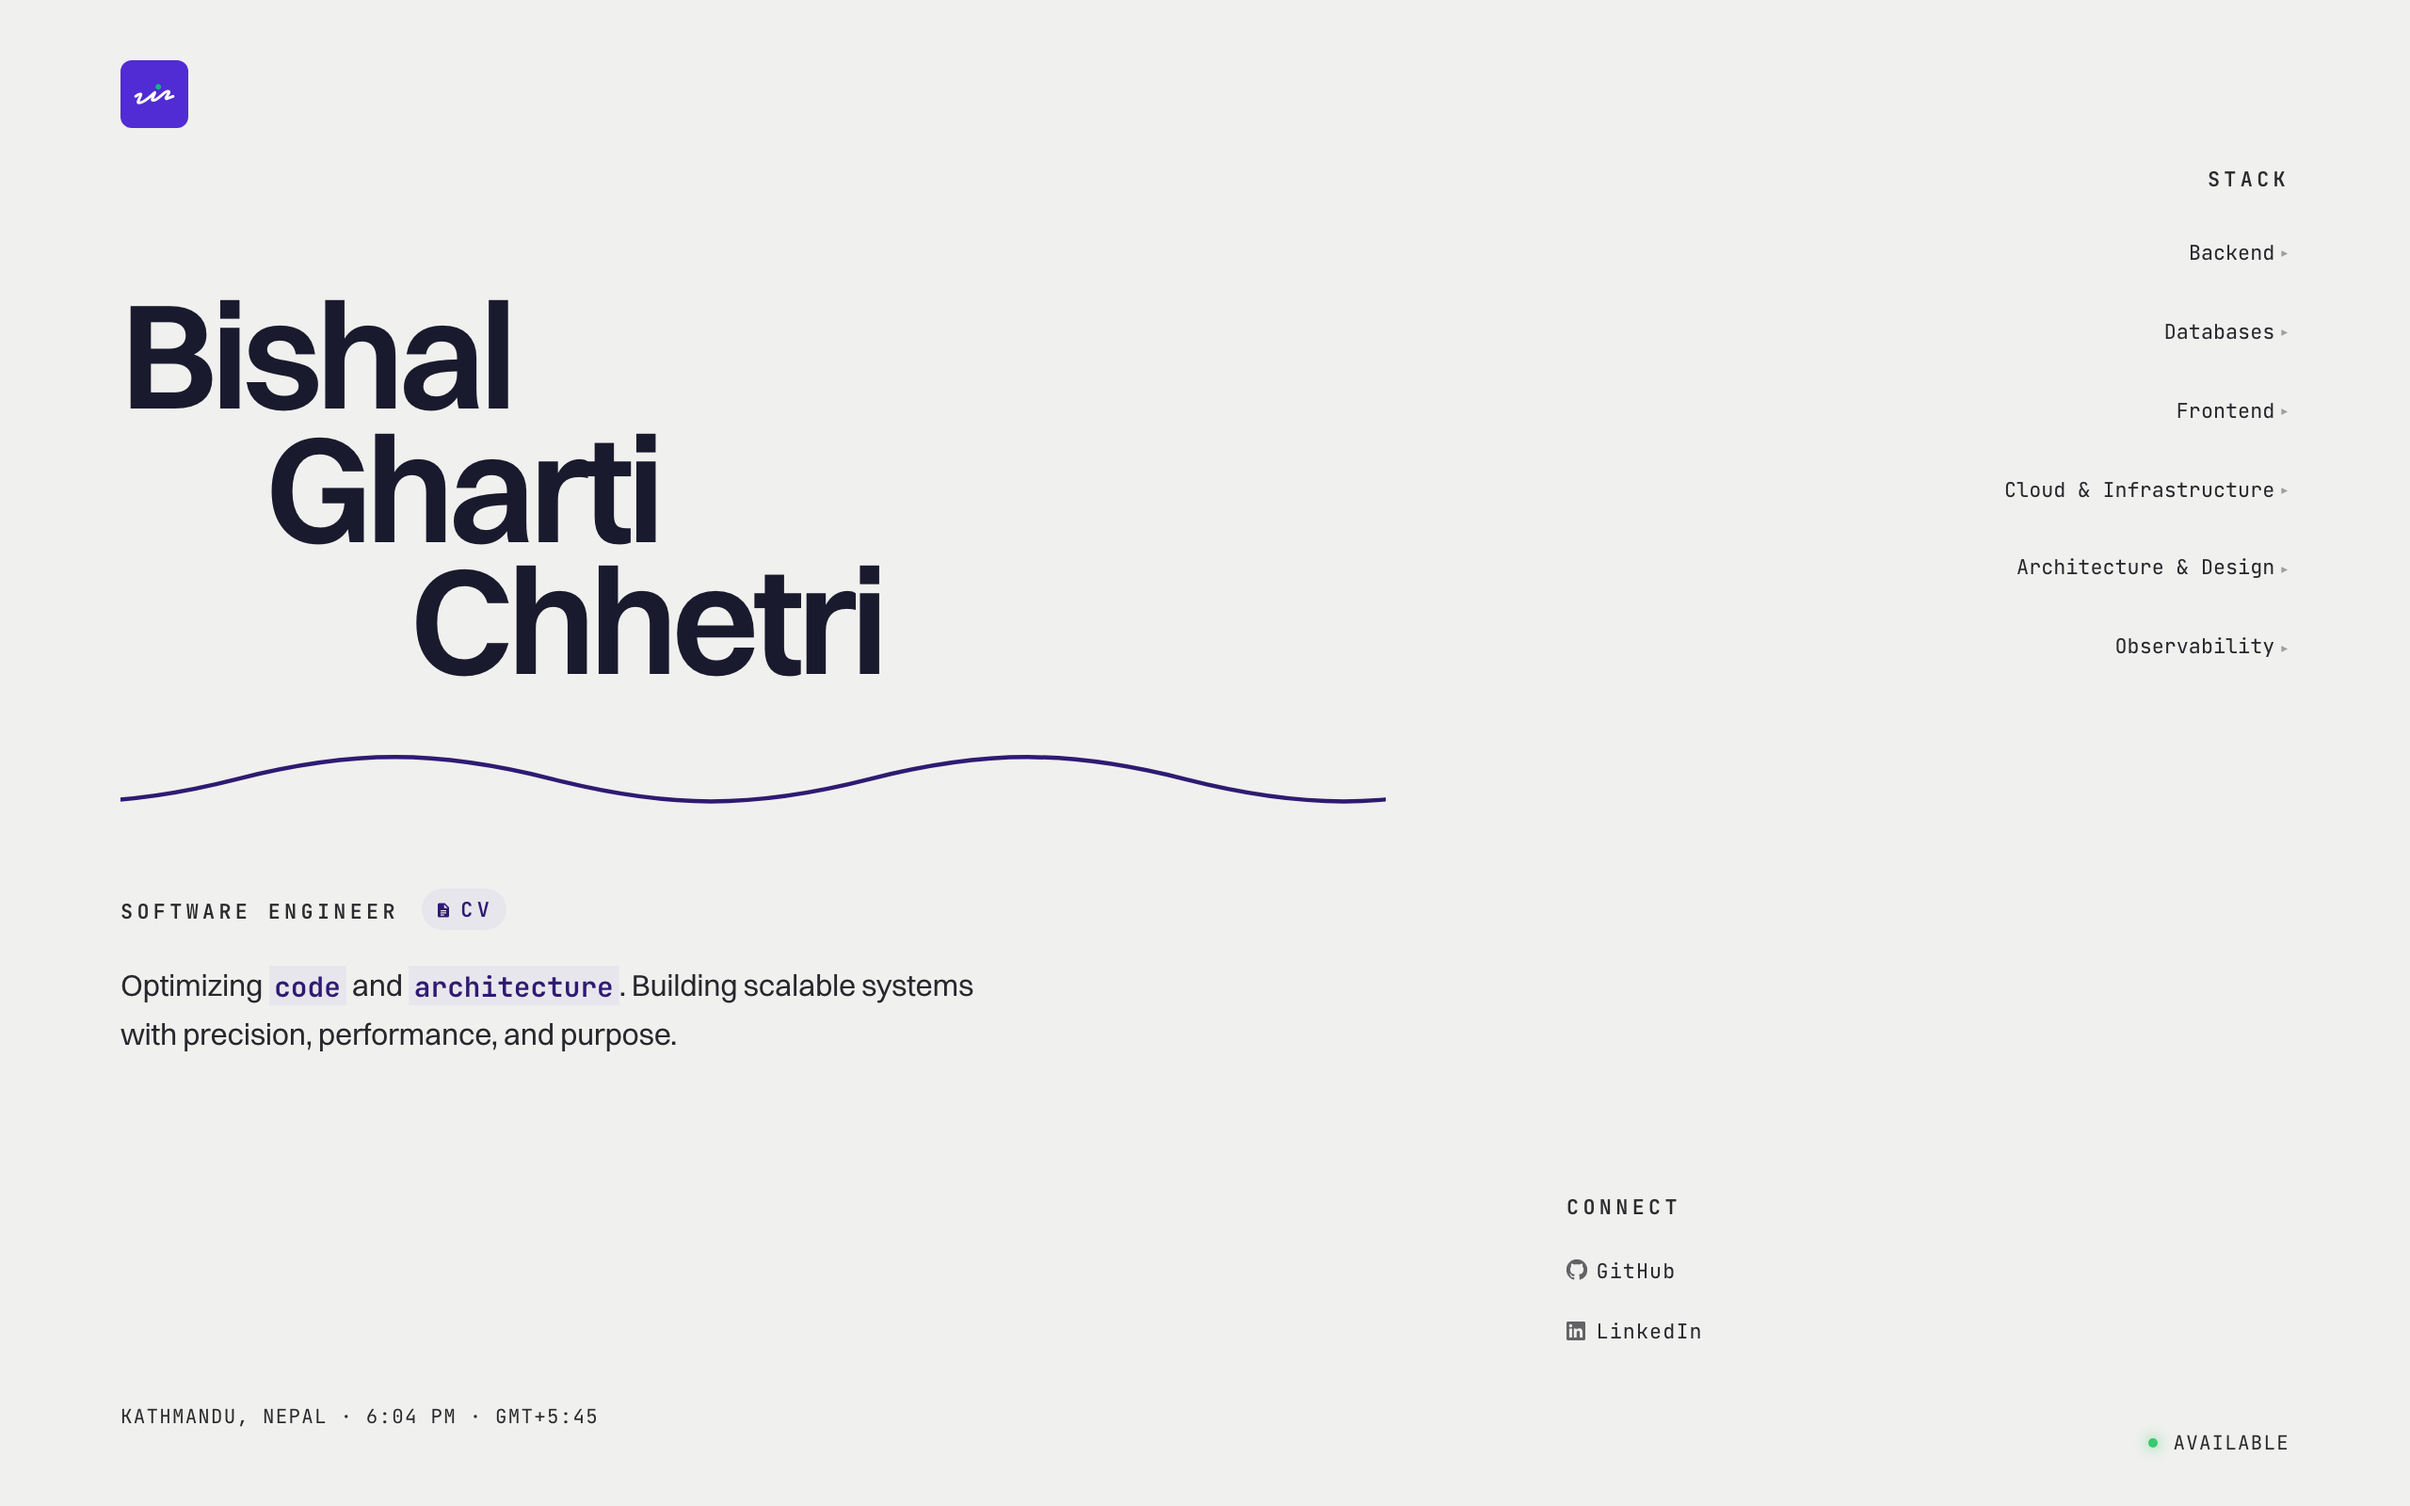
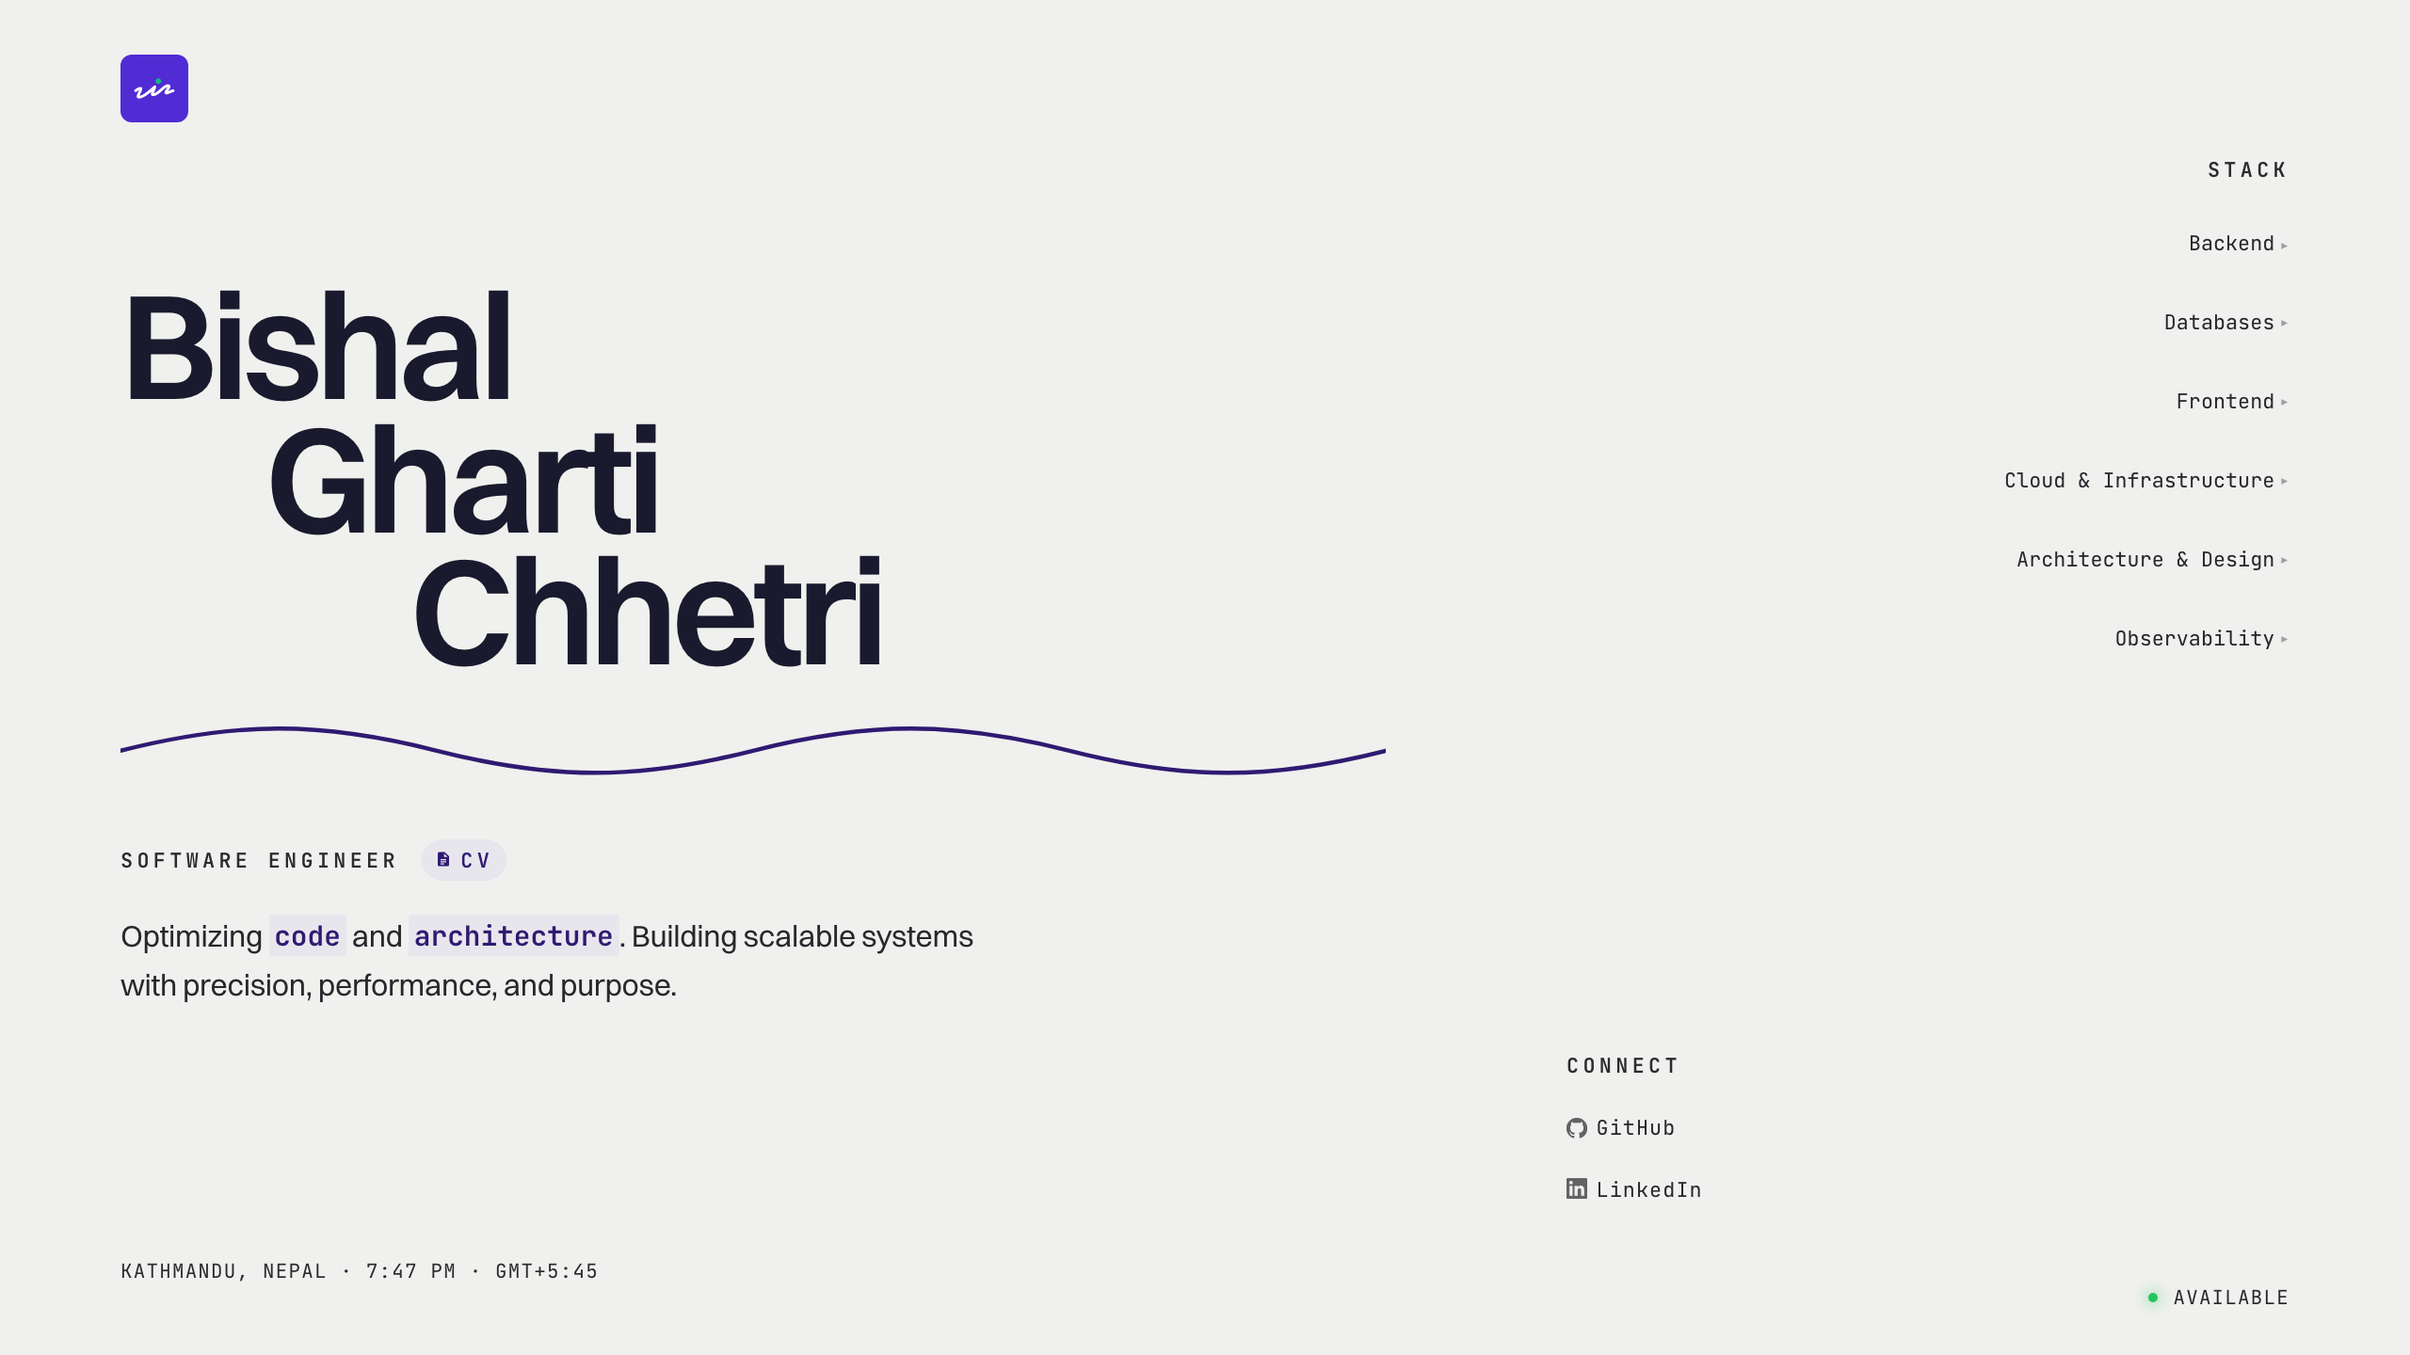
fix: WCAG 2.3.3 reduced-motion and spec compliance
Interactive transform transitions (.link-arrow slide, .stack-category::after
rotate) now gated behind prefers-reduced-motion: reduce. Screenshot script
uses reducedMotion capture, removes animation-wait/dead-code. llms.txt
converted to markdown links, added Optional section per llmstxt.org spec.
Screenshots updated: narrow 20:9, wide 16:9.

diff --git a/scripts/generate-screenshots.js b/scripts/generate-screenshots.js
@@ -3,8 +3,9 @@
  * Generate PWA screenshots in light and dark themes
  * for the web app manifest (narrow + wide form factors).
  *
- * Starts the Astro dev server, waits for all entry animations to finish,
- * kills the TextScramble glitch timers, then captures viewport screenshots.
+ * Starts the Astro dev server, captures at 2× device scale with
+ * `prefers-reduced-motion: reduce` so the page renders instantly in
+ * its final visual state — no animations, no TextScramble, no glitch.
  * Output: public/assets/screenshots/
  *
  * Requires: npx playwright install chromium (one-time setup)
@@ -26,12 +27,13 @@ if (!existsSync(OUT_DIR)) mkdirSync(OUT_DIR, { recursive: true });
 
 // ── Form factors per spec ──────────────────────────────────────────────────
 
-// Narrow = Pixel 8 logical viewport (412×915) @2x → 824×1830 PNG
+// Narrow = 412×915 @2x → 824×1830 PNG (20:9, Pixel 8/9 logical viewport)
+// Wide   = 1280×720 @2x → 2560×1440 PNG (16:9, recommended desktop)
 const SHOTS = [
   { label: "narrow-light", width: 412, height: 915, scheme: "light", formFactor: "narrow" },
   { label: "narrow-dark",  width: 412, height: 915, scheme: "dark",  formFactor: "narrow" },
-  { label: "wide-light",   width: 1280, height: 800, scheme: "light", formFactor: "wide" },
-  { label: "wide-dark",    width: 1280, height: 800, scheme: "dark",  formFactor: "wide" },
+  { label: "wide-light",   width: 1280, height: 720, scheme: "light", formFactor: "wide" },
+  { label: "wide-dark",    width: 1280, height: 720, scheme: "dark",  formFactor: "wide" },
 ];
 
 // ── Helpers ────────────────────────────────────────────────────────────────
@@ -47,57 +49,6 @@ async function waitForServer(url, timeoutMs = 30_000) {
     await new Promise(r => setTimeout(r, 500));
   }
   throw new Error(`Dev server not ready after ${timeoutMs}ms`);
-}
-
-/**
- * Wait for all non-infinite CSS animations and transitions to finish.
- * Filters out infinite animations (waveFlow, breathe).
- */
-async function waitForAnimations(page, timeoutMs = 10_000) {
-  await page.waitForFunction(
-    () => {
-      const animations = document.getAnimations();
-      const pending = animations.filter(a => {
-        if (a.playState === "finished" || a.playState === "idle") return false;
-        // Skip infinite animations — these never finish and are decorative
-        const name = a.animationName || "";
-        if (name === "waveFlow" || name === "breathe") return false;
-        return true;
-      });
-      return pending.length === 0;
-    },
-    { timeout: timeoutMs },
-  ).catch(() => {
-    // Timeout is ok — animations may still have a frame or two left,
-    // but the page is visually settled enough for a screenshot.
-    console.warn("  ⚠ animation settle timed out, capturing anyway");
-  });
-}
-
-/**
- * Nuke all pending timers so TextScramble glitch bursts don't fire mid-capture.
- * Preserves basic timer functionality — just clears what was scheduled.
- */
-async function killGlitchTimers(page) {
-  await page.evaluate(() => {
-    // Clear all timeouts and intervals. Crude but effective — the page
-    // is about to be screenshotted and closed, so no side effects matter.
-    const maxId = setTimeout(() => {}, 0);
-    for (let i = 0; i <= maxId; i++) {
-      clearTimeout(i);
-      clearInterval(i);
-    }
-    // Also kill any in-flight rAF loops by replacing rAF with a no-op
-    // after the current frame renders.
-    const originalRAF = requestAnimationFrame;
-    let killed = false;
-    window.requestAnimationFrame = (cb) => {
-      if (killed) return 0;
-      return originalRAF(cb);
-    };
-    // Let one more frame render, then stop accepting new rAF callbacks.
-    originalRAF(() => { killed = true; });
-  });
 }
 
 // ── Capture ────────────────────────────────────────────────────────────────
@@ -121,27 +72,15 @@ async function capture() {
         viewport: { width: shot.width, height: shot.height },
         colorScheme: shot.scheme,
         deviceScaleFactor: 2,
+        reducedMotion: "reduce",
       });
 
       const page = await context.newPage();
 
-      // ── Navigate + wait for all entry animations to settle ──
+      // reducedMotion: "reduce" disables all animations, TextScramble sets text
+      // instantly, and glitch timers never schedule. Page renders in final state
+      // immediately — no animation waits or timer-killing hacks needed.
       await page.goto(BASE_URL, { waitUntil: "networkidle" });
-
-      // Wait for CSS animations (progress bar, divider draw-in) to finish.
-      // These have known durations: progressFill 1.8s, drawIn 1.8s + 1s delay.
-      await waitForAnimations(page);
-
-      // Extra wait for TextScramble rAF loop + CSS transition tail.
-      // TextScramble starts at 300ms/500ms/700ms and runs ~40 rAF frames each.
-      // All entry transitions finish by ~2.8s. This waits a bit past that.
-      await page.waitForTimeout(500);
-
-      // Kill glitch timers before they fire (glitch schedules 1.5–5s after scramble).
-      await killGlitchTimers(page);
-
-      // One more rAF cycle so the killed state propagates.
-      await page.waitForTimeout(100);
 
       const filename = `screenshot-${shot.label}.png`;
       await page.screenshot({

diff --git a/src/pages/llms.txt.ts b/src/pages/llms.txt.ts
@@ -23,14 +23,18 @@ ${STACK.map(category => `- ${category.name}\n${category.items.map(s => `  - ${s}
 
 ## Connect
 
-- GitHub: ${LINKS.github}
-- LinkedIn: ${LINKS.linkedin}
-- CV: ${SITE.url}${LINKS.cv}
+- [GitHub](${LINKS.github}): ${PERSON.fullName}'s GitHub profile
+- [LinkedIn](${LINKS.linkedin}): ${PERSON.fullName}'s LinkedIn profile
+- [CV](${SITE.url}${LINKS.cv}): ${PERSON.fullName}'s resume
 
 ## Policies
 
 - No AI training on personal data without explicit consent.
 - Contact via LinkedIn for professional inquiries.
+
+## Optional
+
+- [Source Code](${LINKS.github}/profile): Site source on GitHub
 `;
   return new Response(body, {
     headers: { 'Content-Type': 'text/plain; charset=utf-8' },

diff --git a/src/pages/site.webmanifest.ts b/src/pages/site.webmanifest.ts
@@ -33,14 +33,14 @@ export const GET: APIRoute = () => {
       },
       {
         src: '/assets/screenshots/screenshot-wide-light.png',
-        sizes: '2560x1600',
+        sizes: '2560x1440',
         type: 'image/png',
         form_factor: 'wide',
         label: 'Portfolio homepage on desktop — light theme',
       },
       {
         src: '/assets/screenshots/screenshot-wide-dark.png',
-        sizes: '2560x1600',
+        sizes: '2560x1440',
         type: 'image/png',
         form_factor: 'wide',
         label: 'Portfolio homepage on desktop — dark theme',

diff --git a/src/pages/portfolio/styles/motion.css b/src/pages/portfolio/styles/motion.css
@@ -76,6 +76,12 @@
       stroke-dasharray: none;
       animation: none;
     }
+
+    /* Interactive transform transitions — WCAG SC 2.3.3 */
+    .link-arrow,
+    .stack-category::after {
+      transition: none;
+    }
   }
 
   @media (prefers-reduced-data: reduce) {
